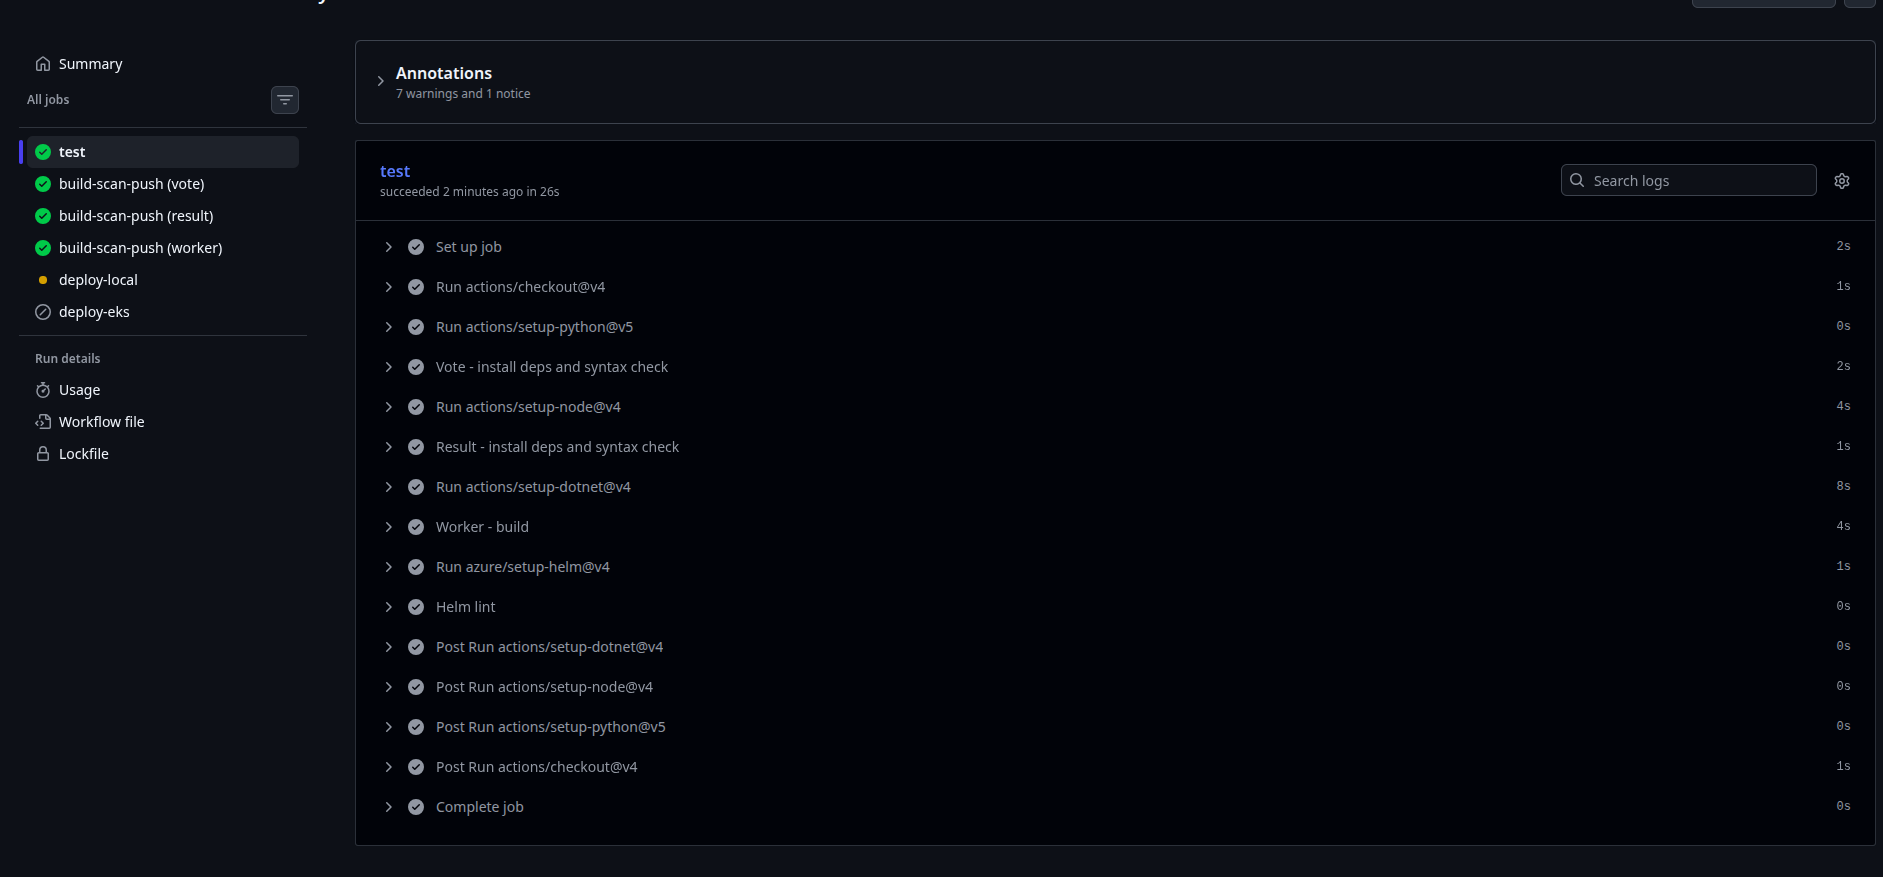
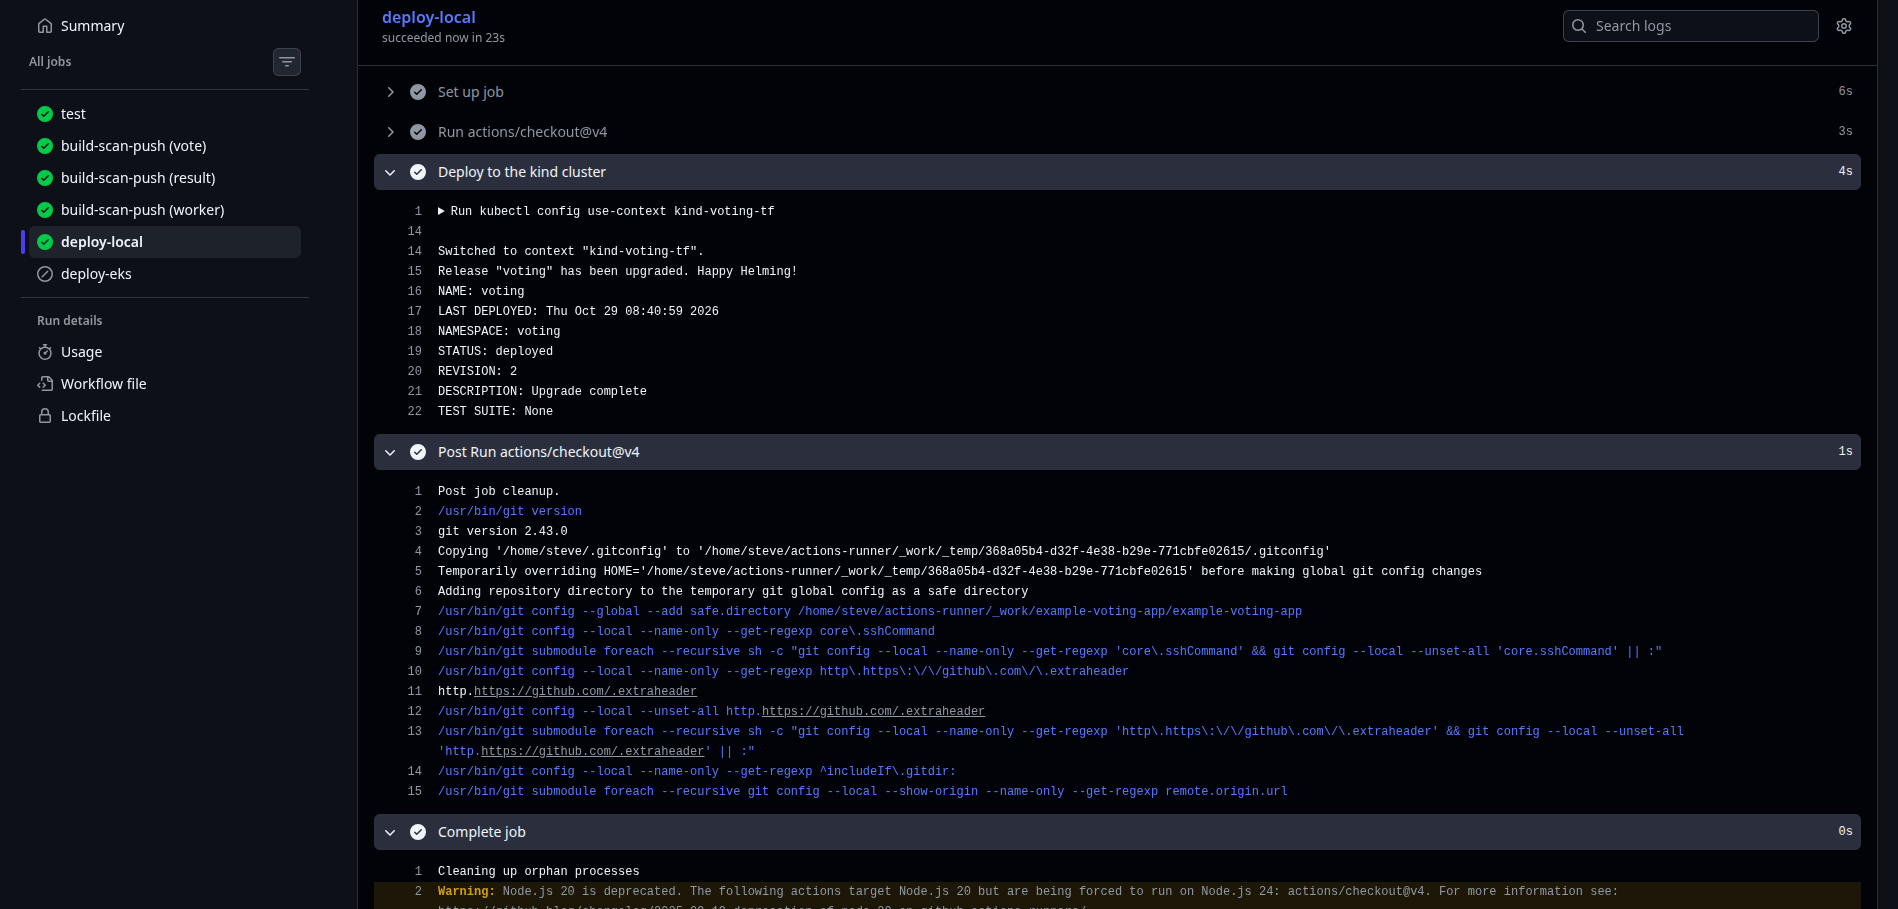
docs: Completed my README documentation and add app and rollback screenshots
Adds a brief-vs-result table, the problems I hit during the tasks and what I learned.

diff --git a/README.md b/README.md
@@ -1,8 +1,15 @@
 # Voting App: Ship It (DevOps Capstone 1)
 
-This is my capstone for the DevOps Capstone Project 1. I took the Docker example voting app and built everything around it: safer containers, a Kubernetes cluster created with Terraform, a GitHub Actions pipeline that builds and deploys it, and a Helm chart so I can roll back a bad release.
+This is my project for Capstone 1 of the DevOps course. I took the Docker example voting app and built everything around it: safer containers, a Kubernetes cluster created with Terraform, a GitHub Actions pipeline that builds and deploys the app, and a Helm chart so I can roll back a bad release. I also wrote down what went wrong along the way.
 
 Forked from [dockersamples/example-voting-app](https://github.com/dockersamples/example-voting-app).
+
+**Take like two minutes to go through:**
+
+- The pipeline is in `.github/workflows/ci-cd.yml`, and a green run is in the screenshots below.
+- The cluster code is in `terraform/`.
+- The Helm chart is in `voting-app/`, and the rollback demo is in Step 5.
+- The honest list of what's missing is under "What isn't perfect".
 
 ## How it fits together
 
@@ -60,8 +67,8 @@ Vote at <http://localhost:8080> and see the results at <http://localhost:8081>.
 
 ## Step 2: Safer containers
 
-- Every base image is pinned to an exact version. Nothing uses `latest`.
-- Nothing runs as root. Vote and worker use user ID 10001, and result uses the built-in `node` user (ID 1000).
+- The base images in my three Dockerfiles are pinned to exact versions. None of them use `latest`.
+- My three app containers don't run as root. Vote and worker use user ID 10001, and result uses the built-in `node` user (ID 1000). Redis and PostgreSQL are the standard public images, and I didn't change how they run.
 - Every service has a `.dockerignore`. The one in `worker/` really matters. Without it, the `obj/` folder from my laptop got copied into the build and broke it.
 - The vote Dockerfile has several stages, and I only set the non-root user in the final one. The normal `docker-compose.yml` builds the dev stage, so it never tests that. That's why I added `docker-compose.final.yml`.
 - On Kubernetes, a non-root user can't use port 80 by default. The vote and result pods set a sysctl (`net.ipv4.ip_unprivileged_port_start=0`) to allow it.
@@ -107,9 +114,9 @@ helm upgrade --install voting ./voting-app -n voting --create-namespace \
 
 One thing to be careful about: the kind provider keeps the cluster's private key in the Terraform state file and prints it in `plan` output. So the state file is git-ignored and I never commit it. My screenshots of Terraform only show the last few lines of output.
 
-### Why I used kind instead of EKS?
+### Why I used kind instead of EKS
 
-The assignment asks for a cluster in the default AWS VPC. I wrote that in `terraform-aws/`, and it passes `terraform validate`, but I couldn't run it. My AWS account is part of an organization with a policy that blocks `ec2:DescribeVpcs` and `eks:DescribeCluster`. I tried six regions (us-east-1, us-east-2, us-west-2, eu-west-1, eu-west-2 and eu-central-1) and all of them were denied. After trying my best, I had to use a local kind cluster created with Terraform. The EKS deploy job is still in the pipeline. It stays skipped unless I set a repository variable called `DEPLOY_EKS` to `true`.
+The assignment asks for a cluster in the default AWS VPC. I wrote that in `terraform-aws/`, and it passes `terraform validate`, but I couldn't run it. My AWS account is part of an organization with a policy that blocks `ec2:DescribeVpcs` and `eks:DescribeCluster`. I tried six regions (us-east-1, us-east-2, us-west-2, eu-west-1, eu-west-2 and eu-central-1) and all of them were denied. Confirming from my colleagues, I used a local kind cluster created with Terraform. The EKS deploy job is still in the pipeline. It stays skipped unless I set a repository variable called `DEPLOY_EKS` to `true`.
 
 ## Step 4: The pipeline
 
@@ -117,7 +124,7 @@ Every push to `main` runs `.github/workflows/ci-cd.yml`:
 
 1. **test** installs the dependencies and does build and syntax checks on vote, result and worker, plus `helm lint`. The original project has no unit tests, so these are build checks, not functional tests.
 2. **build-scan-push** builds each image, scans it with Trivy, and pushes it to Docker Hub tagged with the commit SHA. Right now the scan only reports. It doesn't fail the build (`exit-code: "0"`), so findings show up in the log but don't stop the push.
-3. **deploy-local** runs on my own machine and uses Helm to deploy the new images to the kind cluster.
+3. **deploy-local** runs on my own machine and uses Helm to deploy the new images to the kind cluster. It waits up to 5 minutes, because the first deploy on a fresh cluster is slow while every image gets pulled.
 4. **deploy-eks** does the same for EKS, but is skipped unless `DEPLOY_EKS` is `true`.
 
 Pull requests run the test, build and scan steps, but they don't push or deploy.
@@ -169,8 +176,8 @@ I ship a broken release on purpose, then roll it back:
 ```bash
 helm history voting -n voting
 helm upgrade voting ./voting-app -n voting --reuse-values --set vote.tag=doesnotexist
-kubectl get pods -n voting        # the new vote pod is stuck in ImagePullBackOff
-helm rollback voting 1 -n voting  # use the number of the last good revision
+kubectl get pods -n voting        # the new vote pod is stuck in ErrImagePull / ImagePullBackOff
+helm rollback voting 1 -n voting  # the last GOOD revision, not the newest one
 kubectl get pods -n voting        # everything is Running again
 helm history voting -n voting     # the rollback shows up as a new revision
 ```
@@ -191,9 +198,19 @@ I use `--reuse-values` so the upgrade keeps my commit tag and password and only 
 ![Application running](docs/app-running.png)
 ![Rollback](docs/rollback.png)
 
+## Does it meet the brief?
+
+| What the brief asks for | Where to look | How it went |
+|---|---|---|
+| One push builds, scans and deploys | `.github/workflows/ci-cd.yml`, `docs/pipeline-green.png` | Works. The Trivy scan only reports, it doesn't block yet |
+| The environment rebuilds from code | `terraform/`, `docs/terraform-rebuild.png` | Works with a kind cluster. The EKS version couldn't be applied |
+| No secrets in Git | The secrets table above, `.gitignore` files | The password comes from a GitHub secret, and state files are ignored |
+| Rollback shown live | Step 5, `docs/rollback.png` | Works |
+| Hand-in: README, Terraform, one Helm chart, pipeline, architecture diagram | This repo | All there. The diagram is the one at the top |
+
 ## Security choices
 
-- Pinned base images, and no containers running as root.
+- Pinned base images in my Dockerfiles, and my three app containers don't run as root.
 - Every image gets a Trivy scan before it's pushed. It's report-only for now.
 - The database password isn't in the chart. It's passed in at deploy time from a GitHub secret and stored as a Kubernetes Secret.
 - Pods have resource limits and readiness probes.
@@ -203,8 +220,9 @@ I use `--reuse-values` so the upgrade keeps my commit tag and password and only 
 
 - PostgreSQL uses `emptyDir`, so if the database pod restarts, the votes are gone. A real setup would use a persistent volume.
 - The original app code hardcodes the database login as `postgres/postgres`. The chart uses a Secret, but the app still expects that value, which is why `DB_PASSWORD` has to be `postgres`. Reading the password from an environment variable would be the proper fix.
+- Redis and PostgreSQL use tags like `15-alpine`, not exact patch versions, and the compose files still use `redis:alpine`.
 - The packages in `vote/requirements.txt` aren't pinned, so image builds aren't exactly repeatable.
-- The Trivy scan doesn't fail the build yet.
+- The Trivy scan doesn't fail the build yet. My plan would be to fix the findings first, then turn it into a real gate.
 - Terraform state is stored locally. A remote backend would be better.
 - I never got to apply the EKS version because of the organization policy above.
 - Deploys only work while my machine and the runner are on.
@@ -221,7 +239,19 @@ I use `--reuse-values` so the upgrade keeps my commit tag and password and only 
 | `explicit deny in a service control policy` | The AWS organization blocks those actions | Switched to kind |
 | `Reference to undeclared input variable` | `variables.tf` was missing the `cluster_name` block | Added it |
 | `no context exists with the name "kind-voting-tf"` | The cluster hadn't been created yet | Ran `terraform apply`, or `kind export kubeconfig --name voting-tf` |
+| `./run.sh: No such file or directory` | I hadn't installed the self-hosted runner yet | Downloaded and configured it from the repo's Settings page |
 | `deploy-local` waits forever | The self-hosted runner was off | Started `./run.sh` |
+| Helm failed with `Pass --set db.password` | I hadn't created the `DB_PASSWORD` secret in GitHub | Added the secret with the value `postgres` |
+| Helm timed out after 5 minutes | A new cluster has no cached images, and the pulls were slow | The pods came up on their own, so I re-ran the job and raised the wait to 10 minutes |
+| After a rollback the broken pod was still there | I rolled back to the newest revision, which was the broken one | Rolled back to the last good revision from `helm history` |
+
+## What I learned
+
+- A pinned version only helps if it exists. I pinned a Trivy action version that wasn't real, and the pipeline failed before it even started.
+- Read the whole error. The AWS messages named the exact policy blocking me, and no amount of retrying would have fixed that.
+- A `.dockerignore` isn't optional. One missing file cost me a build that looked fine locally.
+- Rolling back means going to the last good revision, not the latest one. I got that wrong once while practicing.
+- The first deploy on a fresh cluster is slow because nothing is cached yet.
 
 ## Clean up
 
